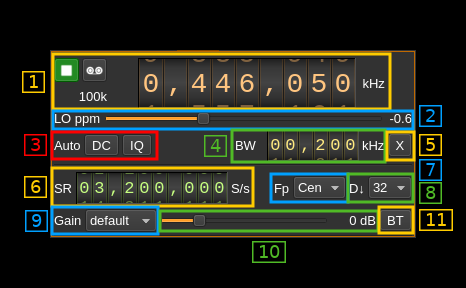
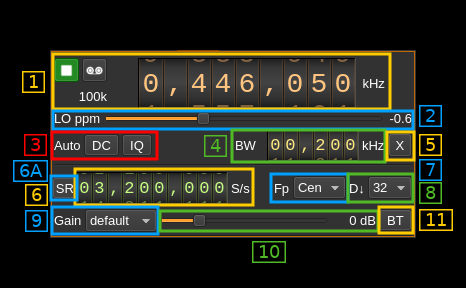
BladeRF: updated documentation

Changed region(s): [[0.03, 0.5312, 0.5408, 0.75]]

diff --git a/plugins/samplesink/bladerf2output/readme.md b/plugins/samplesink/bladerf2output/readme.md
@@ -11,22 +11,24 @@ The plugin will be built only if the [BladeRF host library](https://github.com/N
 Note that the libbladeRF v2 (specifically the git tag 2018.08) is used. The FPGA image v0.7.3 should be used accordingly. The FPGA .rbf file should be copied to the folder where the `sdrangel` binary resides. You can download FPGA images from [here](https://www.nuand.com/fpga_images/)
 
 The BladeRF Host library is also provided by many Linux distributions (check its version) and is built in the SDRangel binary releases.
- 
+
 <h2>Interface</h2>
 
 ![BladeRF2 output plugin GUI](../../../doc/img/BladeRF2Output_plugin.png)
 
 <h3>1: Start/Stop</h3>
 
-Device start / stop button. 
+Device start / stop button.
 
   - Blue triangle icon: device is ready and can be started
   - Red square icon: device is running and can be stopped
   - Magenta (or pink) square icon: an error occurred. In the case the device was accidentally disconnected you may click on the icon, plug back in and start again.
-  
-<h3>2: Baseband sample rate</h3>
 
-This is the baseband sample rate in kS/s before interpolation (4) to produce the final stream that is sent to the BladeRF device. Thus this is the device sample rate (6) divided by the interpolation factor (4).
+<h3>2: Stream sample rate</h3>
+
+In host to device sample rate input mode (7A) this is the baseband I/Q sample rate in kS/s. This is the host to device sample rate (7) divided by the interpolation factor (8).
+
+In baseband sample rate input mode (7A) this is the host to device sample rate in kS/s. This is the baseband sample rate (7) multiplied by the software interpolation factor (8)
 
 Transmission latency depends essentially in the delay in the sample FIFO. The FIFO size is calculated as follows:
 
@@ -36,8 +38,8 @@ For interpolation by 32 the size is fixed at 150000 samples, Delay is 150000 / B
 
 For lower interpolation rates the size is calculated to give a fixed delay of 250 ms or 75000 samples whichever is bigger. Below is the delay in seconds vs baseband sample rate in kS/s from 48 to 400 kS/s. The 250 ms delay is reached at 300 kS/s:
 
-![BladeRF1 output plugin FIFO delay other](../../../doc/img/BladeRF1Output_plugin_fifodly_other.png) 
-  
+![BladeRF1 output plugin FIFO delay other](../../../doc/img/BladeRF1Output_plugin_fifodly_other.png)
+
 <h3>3: Frequency</h3>
 
 This is the center frequency of transmission in kHz. The center frequency is the same for all Tx channels. The GUI of the sibling channel if present is adjusted automatically.
@@ -62,7 +64,7 @@ Note that if you mouse over the button a tooltip appears that displays the trans
 
 You can set the translating frequency in Hz with this dial. Use the wheels to adjust the sample rate. Left click on a digit sets the cursor position at this digit. Right click on a digit sets all digits on the right to zero. This effectively floors value at the digit position. Wheels are moved with the mousewheel while pointing at the wheel or by selecting the wheel with the left mouse click and using the keyboard arrows. Pressing shift simultaneously moves digit by 5 and pressing control moves it by 2.
 
-The frequency set in the device is the frequency on the main dial (1) minus this frequency. Thus it is positive for up converters and negative for down converters. 
+The frequency set in the device is the frequency on the main dial (1) minus this frequency. Thus it is positive for up converters and negative for down converters.
 
 For example with a mixer at 120 MHz for HF operation you would set the value to -120,000,000 Hz so that if the main dial frequency is set to 7,130 kHz the PlutoSDR will be set to 127.130 MHz.
 
@@ -78,11 +80,20 @@ Use this toggle button to activate or deactivate the frequency translation
 
 <h4>6.3: Confirmation buttons</h4>
 
-Use these buttons to confirm ("OK") or dismiss ("Cancel") your changes. 
+Use these buttons to confirm ("OK") or dismiss ("Cancel") your changes.
 
-<h3>7: Device sample rate</h3>
+<h3>7A: Host to device sample rate / Baseband sample rate input toggle</h3>
 
-This is the BladeRF device DAC sample rate in S/s.
+Use this toggle button to switch the sample rate input next (7) between host to device sample rate and baseband sample rate input. The button shows the current mode:
+
+  - **SR**: host to device sample rate input mode. The baseband sample rate (2) is the host to device sample rate (7) divided by the interpolation factor (8).
+  - **BB**: baseband sample rate input mode. The host to device sample rate (2) is the baseband sample rate (7) multiplied by the interpolation factor (8).
+
+<h3>7: Sample rate</h3>
+
+This is the BladeRF device DAC sample rate sample rate or baseband sample rate in samples per second (S/s). The control (7A) is used to switch between the two input modes. The device to/from host stream sample rate is the same for the Rx and Tx systems.
+
+The limits are adjusted automatically. In baseband input mode the limits are driven by the interpolation factor (8). You may need to increase this interpolation factor to be able to reach lower values.
 
 Use the wheels to adjust the sample rate. Left click on a digit sets the cursor position at this digit. Right click on a digit sets all digits on the right to zero. This effectively floors value at the digit position. Wheels are moved with the mousewheel while pointing at the wheel or by selecting the wheel with the left mouse click and using the keyboard arrows. Pressing shift simultaneously moves digit by 5 and pressing control moves it by 2.
 
@@ -97,7 +108,7 @@ The baseband stream is interpolated by this value before being sent to the Blade
   - **16**: multiply baseband stream sample rate by 16
   - **32**: multiply baseband stream sample rate by 32
 
-The main samples buffer is based on the baseband sample rate and will introduce ~500ms delay for interpolation by 16 or lower and ~1s for interpolation by 32. 
+The main samples buffer is based on the baseband sample rate and will introduce ~500ms delay for interpolation by 16 or lower and ~1s for interpolation by 32.
 
 <h3>9: Gain control</h3>
 

diff --git a/plugins/samplesource/bladerf2input/readme.md b/plugins/samplesource/bladerf2input/readme.md
@@ -26,19 +26,21 @@ This is the center frequency of reception in kHz. The center frequency is the sa
 
 <h4>1.2: Start/Stop</h4>
 
-Device start / stop button. 
+Device start / stop button.
 
   - Blue triangle icon: device is ready and can be started
   - Green square icon: device is running and can be stopped
   - Magenta (or pink) square icon: an error occurred. In the case the device was accidentally disconnected you may click on the icon, plug back in and start again.
-  
+
 <h4>1.3: Record</h4>
 
 Record baseband I/Q stream toggle button
 
 <h4>1.4: Stream sample rate</h4>
 
-Baseband I/Q sample rate in kS/s. This is the device sample rate (4) divided by the decimation factor (6). 
+In device to host sample rate input mode (6A) this is the baseband I/Q sample rate in kS/s. This is the device to host sample rate (6) divided by the decimation factor (8).
+
+In baseband sample rate input mode (6A) this is the device to host sample rate in kS/s. This is the baseband sample rate (6) multiplied by the decimation factor (8)
 
 <h3>2: LO ppm correction</h3>
 
@@ -50,7 +52,7 @@ These buttons control the local DSP auto correction options:
 
   - **DC**: auto remove DC component
   - **IQ**: auto make I/Q balance. The DC correction must be enabled for this to be effective.
-  
+
 <h3>4: Rx filter bandwidth</h3>
 
 This is the Rx filter bandwidth in kHz. Minimum and maximum values are adjusted automatically. Normal range is from 200 kHz to 56 MHz. The Rx filter bandwidth is the same for all Rx channels. The GUI of the sibling channel if present is adjusted automatically.
@@ -67,7 +69,7 @@ Note that if you mouse over the button a tooltip appears that displays the trans
 
 You can set the translating frequency in Hz with this dial. Use the wheels to adjust the sample rate. Left click on a digit sets the cursor position at this digit. Right click on a digit sets all digits on the right to zero. This effectively floors value at the digit position. Wheels are moved with the mousewheel while pointing at the wheel or by selecting the wheel with the left mouse click and using the keyboard arrows. Pressing shift simultaneously moves digit by 5 and pressing control moves it by 2.
 
-The frequency set in the device is the frequency on the main dial (1) minus this frequency. Thus it is positive for down converters and negative for up converters. 
+The frequency set in the device is the frequency on the main dial (1) minus this frequency. Thus it is positive for down converters and negative for up converters.
 
 For example a mixer at 120 MHz for HF operation you would set the value to -120,000,000 Hz so that if the main dial frequency is set at 7,130 kHz the PlutoSDR will be set to 127.130 MHz.
 
@@ -83,11 +85,20 @@ Use this toggle button to activate or deactivate the frequency translation
 
 <h4>5.3: Confirmation buttons</h4>
 
-Use these buttons to confirm ("OK") or dismiss ("Cancel") your changes. 
+Use these buttons to confirm ("OK") or dismiss ("Cancel") your changes.
 
-<h3>6: Device sample rate</h3>
+<h3>6A: Device sample rate / Baseband sample rate input toggle</h3>
 
-This is the BladeRF device ADC sample rate in S/s.
+Use this toggle button to switch the sample rate input next (6) between device sample rate and baseband sample rate input. The button shows the current mode:
+
+  - **SR**: device sample rate input mode. The baseband sample rate (1.4) is the device sample rate (6) divided by the decimation factor (8).
+  - **BB**: baseband sample rate input mode. The device sample rate (1.4) is the baseband sample rate (6) multiplied by the decimation factor (8).
+
+<h3>6: Sample rate</h3>
+
+This is the BladeRF device ADC sample rate or baseband sample rate in samples per second (S/s). The control (4A) is used to switch between the two input modes.
+
+The limits are adjusted automatically. In baseband input mode the limits are driven by the decimation factor (5). You may need to increase this decimation factor to be able to reach lower values.
 
 Use the wheels to adjust the sample rate. Left click on a digit sets the cursor position at this digit. Right click on a digit sets all digits on the right to zero. This effectively floors value at the digit position. Wheels are moved with the mousewheel while pointing at the wheel or by selecting the wheel with the left mouse click and using the keyboard arrows. Pressing shift simultaneously moves digit by 5 and pressing control moves it by 2.
 
@@ -98,10 +109,10 @@ The ADC sample rate is the same for all Rx channels. The GUI of the sibling chan
 Possible values are:
 
   - **Cen**: the decimation operation takes place around the BladeRF Rx center frequency Fs
-  - **Inf**: the decimation operation takes place around Fs - Fc. 
+  - **Inf**: the decimation operation takes place around Fs - Fc.
   - **Sup**: the decimation operation takes place around Fs + Fc.
-  
-With SR as the sample rate before decimation Fc is calculated as: 
+
+With SR as the sample rate before decimation Fc is calculated as:
 
   - if decimation n is 4 or lower:  Fc = SR/2^(log2(n)-1). The device center frequency is on the side of the baseband. You need a RF filter bandwidth at least twice the baseband.
   - if decimation n is 8 or higher: Fc = SR/n. The device center frequency is half the baseband away from the side of the baseband. You need a RF filter bandwidth at least 3 times the baseband.

diff --git a/sdrgui/readme.md b/sdrgui/readme.md
@@ -168,22 +168,22 @@ Use this checkbox to toggle on/off the reverse API feature. With reverse API eng
 
 ```
 {
-  "deviceHwType": "HackRF", 
+  "deviceHwType": "HackRF",
   "hackRFInputSettings": {
-    "LOppmTenths": 0, 
-    "bandwidth": 1750000, 
-    "biasT": 0, 
-    "centerFrequency": 435000000, 
-    "dcBlock": 0, 
-    "devSampleRate": 2400000, 
-    "fcPos": 2, 
-    "iqCorrection": 0, 
-    "linkTxFrequency": 0, 
-    "lnaExt": 0, 
-    "lnaGain": 16, 
-    "log2Decim": 0, 
+    "LOppmTenths": 0,
+    "bandwidth": 1750000,
+    "biasT": 0,
+    "centerFrequency": 435000000,
+    "dcBlock": 0,
+    "devSampleRate": 2400000,
+    "fcPos": 2,
+    "iqCorrection": 0,
+    "linkTxFrequency": 0,
+    "lnaExt": 0,
+    "lnaGain": 16,
+    "log2Decim": 0,
     "vgaGain": 16
-  }, 
+  },
   "tx": 0
 }
 ```
@@ -701,25 +701,25 @@ Use this checkbox to toggle on/off the reverse API feature. With reverse API eng
 ```
 {
   "SSBDemodSettings": {
-    "agc": 0, 
-    "agcClamping": 0, 
-    "agcPowerThreshold": -40, 
-    "agcThresholdGate": 4, 
-    "agcTimeLog2": 7, 
-    "audioBinaural": 0, 
-    "audioDeviceName": "System default device", 
-    "audioFlipChannels": 0, 
-    "audioMute": 0, 
-    "dsb": 0, 
-    "inputFrequencyOffset": 0, 
-    "lowCutoff": 300, 
-    "rfBandwidth": 3000, 
-    "rgbColor": -16711936, 
-    "spanLog2": 3, 
-    "title": "SSB Demodulator", 
+    "agc": 0,
+    "agcClamping": 0,
+    "agcPowerThreshold": -40,
+    "agcThresholdGate": 4,
+    "agcTimeLog2": 7,
+    "audioBinaural": 0,
+    "audioDeviceName": "System default device",
+    "audioFlipChannels": 0,
+    "audioMute": 0,
+    "dsb": 0,
+    "inputFrequencyOffset": 0,
+    "lowCutoff": 300,
+    "rfBandwidth": 3000,
+    "rgbColor": -16711936,
+    "spanLog2": 3,
+    "title": "SSB Demodulator",
     "volume": 3
-  }, 
-  "channelType": "SSBDemod", 
+  },
+  "channelType": "SSBDemod",
   "tx": 0
 }
 ```
@@ -763,7 +763,7 @@ The spectrum display is controlled by the display control (4).
 
 <h4>8.1. SDRangel version</h4>
 
-Self explanatory
+This is the current tag or the latest tag followed by the number of commits since the latest tag followed by the git commit SHA1 (8 hex characters) preceded by 'g'. Ex: `v4.5.3-29-gf5f2349d`
 
 <h4>8.2. Qt version</h4>
 
@@ -779,4 +779,4 @@ Pretty print of the operating system in which SDRangel is running.
 
 <h4>8.5. Local date and time</h4>
 
-Local time timestamp according to system clock
+Local time timestamp according to system clock. Format: `yyyy-mm-dd HH:MM:ss TZ`

diff --git a/plugins/samplesink/bladerf1output/readme.md b/plugins/samplesink/bladerf1output/readme.md
@@ -42,9 +42,11 @@ Device start / stop button.
   - Red square icon: device is running and can be stopped
   - Magenta (or pink) square icon: an error occurred. In the case the device was accidentally disconnected you may click on the icon, plug back in and start again.
 
-<h3>2: Baseband sample rate</h3>
+<h3>2: Stream sample rate</h3>
 
-This is the baseband sample rate in kS/s before interpolation (4) to produce the final stream that is sent to the BladeRF device. Thus this is the device sample rate (6) divided by the interpolation factor (4).
+In host to device sample rate input mode (6A) this is the baseband I/Q sample rate in kS/s. This is the host to device sample rate (6) divided by the interpolation factor (7).
+
+In baseband sample rate input mode (6A) this is the host to device sample rate in kS/s. This is the baseband sample rate (6) multiplied by the software interpolation factor (7)
 
 Transmission latency depends essentially in the delay in the sample FIFO. The FIFO size is calculated as follows:
 

diff --git a/plugins/samplesource/bladerf1input/readme.md b/plugins/samplesource/bladerf1input/readme.md
@@ -38,7 +38,9 @@ Record baseband I/Q stream toggle button
 
 <h4>1.4: Stream sample rate</h4>
 
-Baseband I/Q sample rate in kS/s. This is the device sample rate (4) divided by the decimation factor (6).
+In device to host sample rate input mode (4A) this is the baseband I/Q sample rate in kS/s. This is the device to host sample rate (4) divided by the decimation factor (5).
+
+In baseband sample rate input mode (4A) this is the device to host sample rate in kS/s. This is the baseband sample rate (4) multiplied by the decimation factor (5)
 
 <h3>2: Auto correction options</h3>
 
